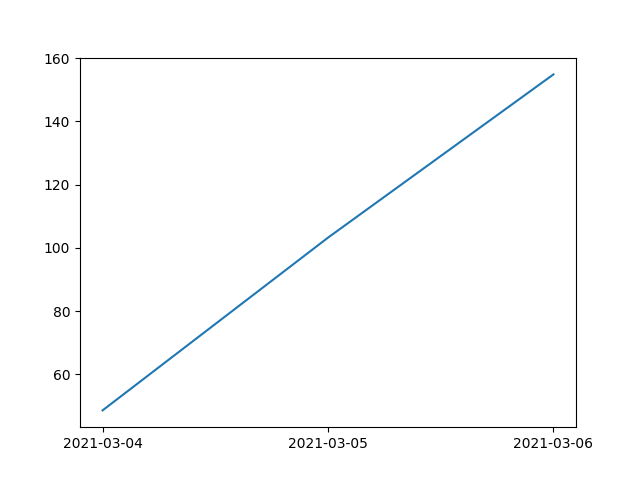
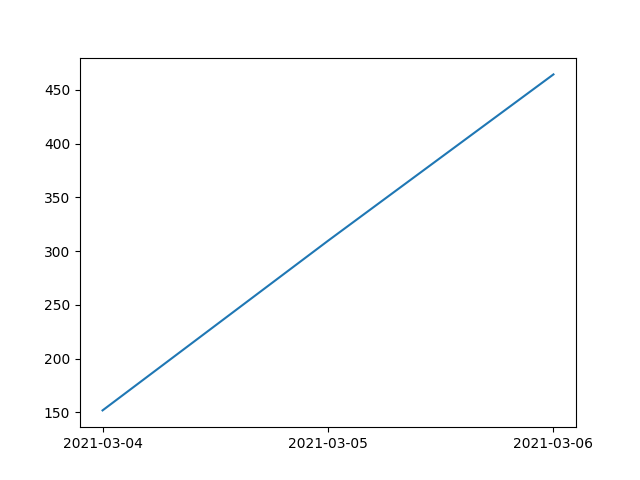
a

diff --git a/app/templates/setup.html b/app/templates/setup.html
@@ -10,7 +10,7 @@
 <h2>Setup</h2>
   <form action="/save-setup" method="POST">
     <label for="salary">Monthly Net Earnings:</label>
-    <input type="text" name="salary" id="salary" value="{{setup['earnings']}}"><br>
+    <input type="text" name="salary" id="salary" onfocusout="sumInputs()" value="{{setup['salary']}}"><br>
     <p>Next, fill in what purchases always occur each month:</p>
 
 
@@ -207,11 +207,11 @@
       </tbody>
     </table>
 
-    <span>How much remains: </span><span id="total_calculation">1600</span><br>
+    <span>How much remains: </span><span id="total_calculation"></span><br>
     <p>What remains is split between saving and purchases.</p>
 
     <label for="saving">How much do you want to save?</label>
-    <input type="text" name="saving" id="saving"><br>
+    <input type="text" name="saving" id="saving" value="{{setup['saving']}}"><br>
     <button type="submit" class="btn btn-success", value="Submit">Save Setup</button>
 
   </form>
@@ -221,7 +221,6 @@
   <!-- Latest compiled and minified JavaScript -->
   <script src="https://maxcdn.bootstrapcdn.com/bootstrap/3.3.7/js/bootstrap.min.js" integrity="sha384-Tc5IQib027qvyjSMfHjOMaLkfuWVxZxUPnCJA7l2mCWNIpG9mGCD8wGNIcPD7Txa" crossorigin="anonymous"></script>
   <script>
-  console.log("ABC")
   function sumInputs() {
     sum = 0
     parsed = parseInt(document.getElementById('salary').value, 10)
@@ -234,6 +233,10 @@
     }
     if (sum < 0) { sum = 0}
     document.getElementById("total_calculation").innerHTML = sum;
+  }
+
+  window.onload = function() {
+   sumInputs();
   }
   </script>
 </body>

diff --git a/app/main.py b/app/main.py
@@ -4,6 +4,7 @@ import matplotlib.pyplot as plt
 import matplotlib
 import numpy as np
 from os import path
+import os
 from datetime import datetime, timedelta
 
 def subtract_two_numbers(a, b):
@@ -25,7 +26,7 @@ def index():
 @app.route('/setup')
 def setup():
     if path.exists("data.csv"):
-        setup = pd.read_csv("data.csv").iloc[0].to_dict()
+        setup = pd.read_csv("data.csv").fillna('').iloc[0].to_dict()
     else:
         setup = {'earnings': "2100",
              'purchase1': "Rent", 'cost1': "500", 'category1': "need",
@@ -70,7 +71,6 @@ def main():
     date = created.replace(day=1)
     dfs = []
     while date < first_day_next_month_from_today:
-        print(date)
         # Calculate days this month and budget per day for the month
         first_day_next_month = (date + timedelta(days=35)).replace(day=1)
         first_day_this_month = date
@@ -106,11 +106,15 @@ def main():
     # Get the funds column
     df['funds'] = df[['funds_with_no_spending', 'cost']].apply(lambda x: subtract_two_numbers(*x), axis=1).astype(float)
 
-    funds_as_of_today = df.loc[df['date'] == datetime.now().strftime("%Y-%m-%d")]
+    funds_as_of_today = df.loc[df['date'] == datetime.now().strftime("%Y-%m-%d")].iloc[0].funds
+    print(df, funds_as_of_today)
     df = df.set_index("date")
     matplotlib.use('Agg')
     plt.plot(df.funds)
-    plt.savefig('app/static/plot.png')
+    filepath = 'app/static/plot.png'
+    if path.exists(filepath):
+        os.remove(filepath)
+    plt.savefig(filepath)
 
     return render_template("main.html", funds_as_of_today=funds_as_of_today)
 
